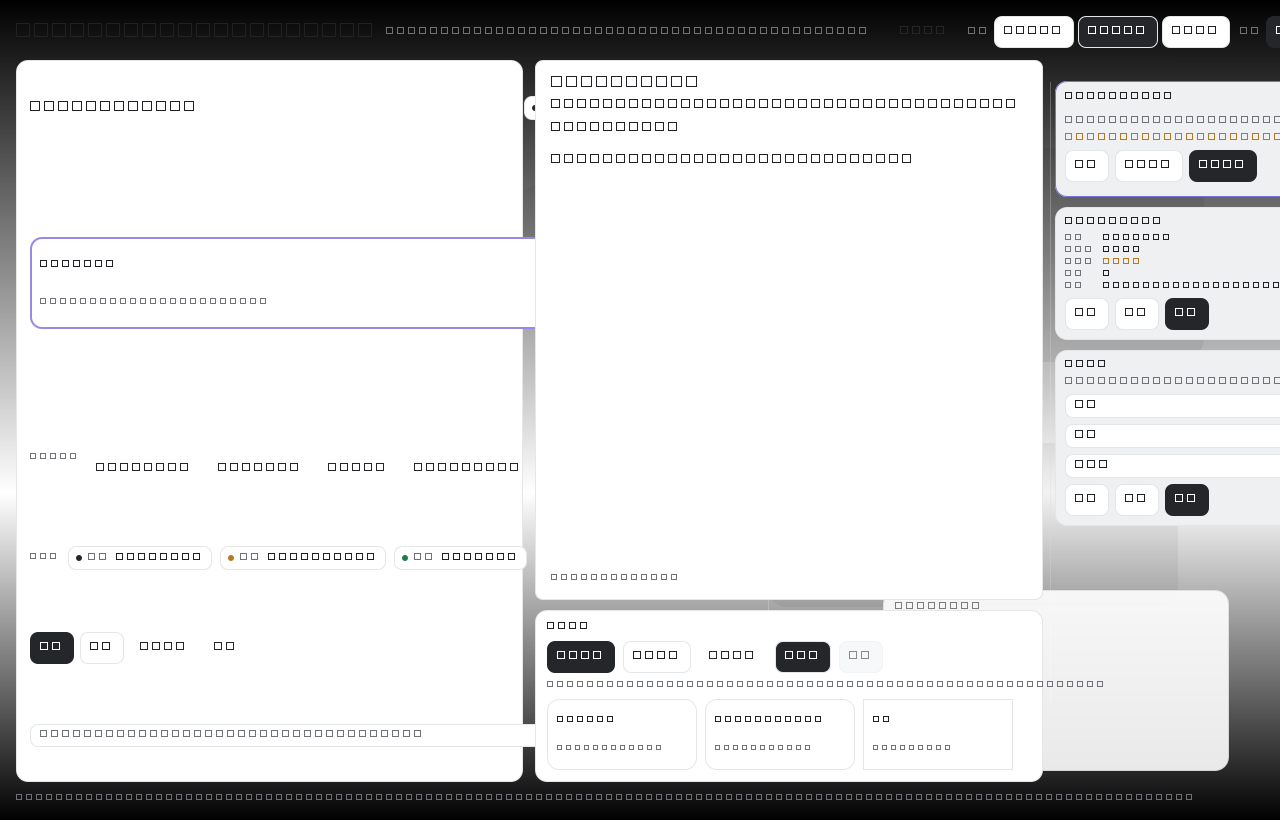
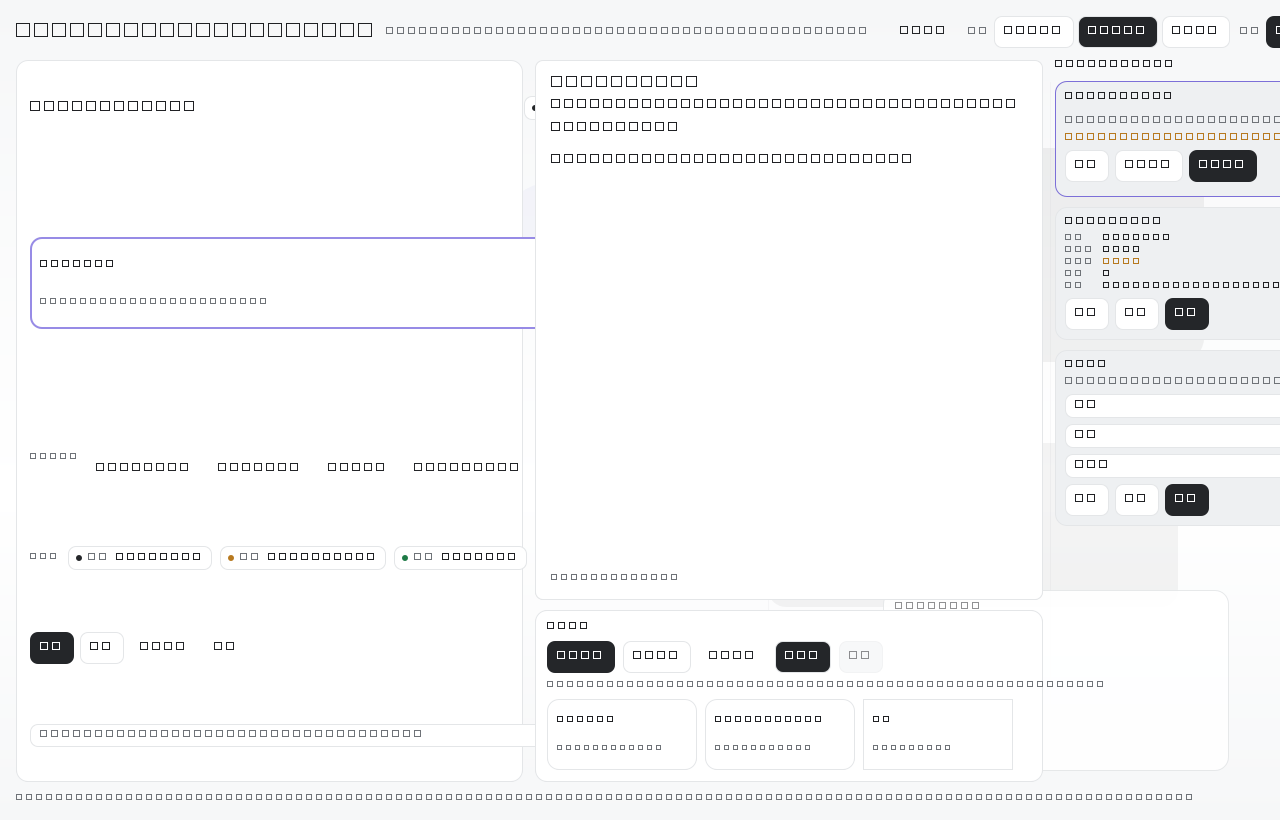
fix(frontend): restore lab backdrop theme colors via typed color helper (Qt.rgba was producing black from token strings)

diff --git a/src/ai_novel_studio/ui_qml/qml/VisualLab.qml b/src/ai_novel_studio/ui_qml/qml/VisualLab.qml
@@ -27,7 +27,11 @@ ApplicationWindow {
     font.family: Theme.tokens.font.ui
 
     // Helper: theme color with a low alpha (background decorations only).
-    function tint(color, alpha) {
+    // Typed `color` parameter is required: Theme.tokens.* values are strings
+    // ("#RRGGBB"); an untyped parameter would leave color.r/g/b undefined and
+    // Qt.rgba() would silently produce black (observed as black bands/blocks
+    // in the lab backdrop).
+    function tint(color: color, alpha: real) {
         return Qt.rgba(color.r, color.g, color.b, alpha)
     }
 
@@ -67,7 +71,7 @@ ApplicationWindow {
                 }
                 GradientStop {
                     position: 0.6
-                    color: Qt.lighter(Theme.tokens.color.bgCanvas, 1.04)
+                    color: root.tint(Qt.lighter(Theme.tokens.color.bgCanvas, 1.04), 1)
                 }
                 GradientStop {
                     position: 1.0
